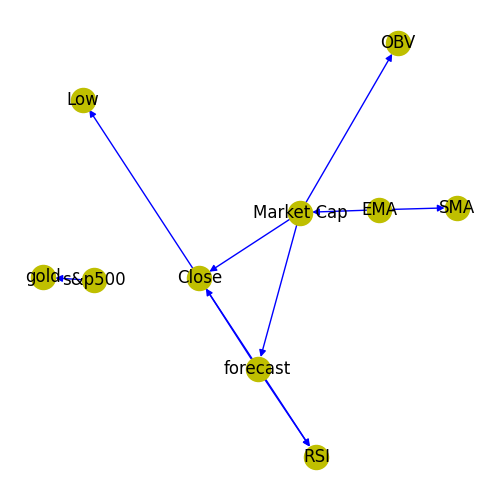
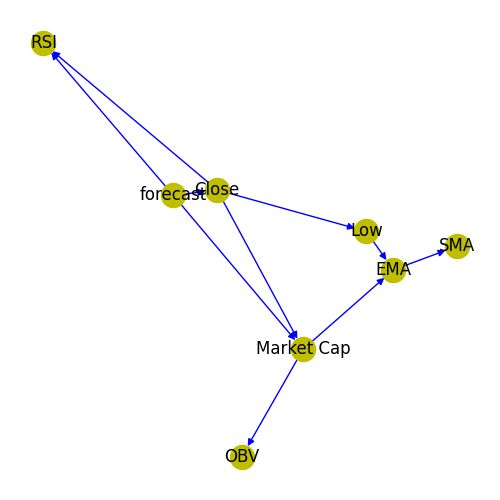
markov - done

diff --git a/source_code/markov.py b/source_code/markov.py
@@ -1,3 +1,21 @@
+# Import libraries
+import os
+import argparse
+import numpy as np
+random_seed = 42
+np.random.seed(random_seed)
+
+import pandas as pd
+import networkx as nx
+from pgmpy.models import BayesianModel
+from pgmpy.inference import BeliefPropagation
+
+import matplotlib.pyplot as plt
+import pickle as pkl
+
+import warnings
+warnings.filterwarnings("ignore")
+
 def remove_disconnected_nodes(original_model: BayesianModel) -> BayesianModel:
     """
     Function to remove disconnected nodes from a Bayesian Model.
@@ -23,71 +41,81 @@ def remove_disconnected_nodes(original_model: BayesianModel) -> BayesianModel:
 
     return model
 
-model_bayesian_connected = remove_disconnected_nodes(model_bayesian)
+if __name__ == '__main__':
+    argparser = argparse.ArgumentParser(description='Bayesian Network')
+    argparser.add_argument('--cleaned_data', type=str, default='../data/cleaned_data/test_data.csv', help='Path to the data')
+    argparser.add_argument('--hmm_data', type=str, default='../data/hmm_data/test_data.csv', help='Path to the test data')
+    args = argparser.parse_args()
 
-# Convert Bayesian Network to Markov Network
-markov_model = model_bayesian_connected.to_markov_model()
+    # Load pkl model
+    with open('../models/bayesian_model.pkl', 'rb') as f:
+        model_bayesian = pkl.load(f)
+    
+    model_bayesian_connected = remove_disconnected_nodes(model_bayesian)
 
-# Initialize the Belief Propagation class with the Markov Model
-bp = BeliefPropagation(markov_model)
+    # Convert Bayesian Network to Markov Network
+    markov_model = model_bayesian_connected.to_markov_model()
 
-for cpd in model_bayesian_connected.get_cpds():
-    print("CPD for {0}:".format(cpd.variable))
-    print(cpd)
+    # Initialize the Belief Propagation class with the Markov Model
+    bp = BeliefPropagation(markov_model)
 
-# Create a new graph from the Markov model's edges
-G = nx.Graph()
-G.add_edges_from(markov_model.edges())
+    for cpd in model_bayesian_connected.get_cpds():
+        print("CPD for {0}:".format(cpd.variable))
+        print(cpd)
 
-# Draw the graph
-plt.figure(figsize=(8, 6))
-pos = nx.spring_layout(G, seed=42)  # set layout
-nx.draw(G, pos, with_labels=True, font_weight='bold')
+    # Create a new graph from the Markov model's edges
+    G = nx.Graph()
+    G.add_edges_from(markov_model.edges())
 
-plt.title('Markov Network Graph')
-plt.show()
+    # Draw the graph
+    fig = plt.figure(figsize=(8, 6))
+    pos = nx.spring_layout(G, seed=42)  # set layout
+    nx.draw(G, pos, with_labels=True, font_weight='bold')
+
+    plt.title('Markov Network Graph')
+    plt.show()
+
+    # Create folder if not exists
+    if not os.path.exists('./plots/markov'):
+        os.makedirs('./plots/markov')
+
+    # Save the plot
+    fig.savefig('./plots/markov/markov_model.png')
 
 
-from pandas.core.arrays.datetimelike import mode
+    # discretise test data and plot
+    test_data = pd.read_csv(args.cleaned_data, index_col=0)
+    states_test = pd.read_csv(args.hmm_data, index_col=0)
+    
 
-# discretise test data and plot
-discretise_data_with_hmm_and_save_csv(test_data, 'test_data')
-states_test = pd.read_csv("./data/test_data.csv", index_col=0);
-# states_test = states_test.drop('forecast', axis=1)
+    # Initialize an empty DataFrame to store the results
+    results_df_markov = pd.DataFrame()
 
-# Initialize an empty DataFrame to store the results
-results_df_markov = pd.DataFrame()
+    # Get a set of variable names from the model
+    model_variables = set(model_bayesian_connected.nodes())
+    print(model_variables)
 
-# Get a set of variable names from the model
-model_variables = set(model_bayesian_connected.nodes())
-print(model_variables)
+    # Loop over all rows in the DataFrame
+    for i in range(len(states_test)):
+        # Get the current row and convert it to a dictionary
+        evidence_row = test_data.iloc[i]
+        evidence = evidence_row.to_dict()
 
-# Loop over all rows in the DataFrame
-for i in range(len(states_test)):
-    # Get the current row and convert it to a dictionary
-    evidence_row = test_data.iloc[i]
-    evidence = evidence_row.to_dict()
+        # # Remove 'Close' and forecast from the evidence
+        if 'Close' in evidence:
+            del evidence['Close']
 
-    # # Remove 'Close' and forecast from the evidence
-    if 'Close' in evidence:
-        del evidence['Close']
-        # del evidence['forecast']
-        # del evidence['13w_treasury']
+        # Only keep variables in the evidence that are in the model
+        evidence = {var: value for var, value in evidence.items() if var in model_variables and value in [0, 1, 2]}
 
-    # Only keep variables in the evidence that are in the model
-    evidence = {var: value for var, value in evidence.items() if var in model_variables and value in [0, 1, 2]}
-    # for var, value in evidence.items():
-    #   print(f"Variable: {var}, Value: {value}, Type: {type(value)}")
+        # Perform the inference
+        result = bp.query(variables=['Close'], evidence=evidence)
 
-    # Perform the inference
-    result = bp.query(variables=['Close'], evidence=evidence)
+        # Convert the result to a DataFrame and append it to the results DataFrame
+        result_df = pd.DataFrame([result.values], columns=['prob_0', 'prob_1', 'prob_2'])
+        results_df_markov = pd.concat([results_df_markov, result_df], ignore_index=True)
 
-    # Convert the result to a DataFrame and append it to the results DataFrame
-    result_df = pd.DataFrame([result.values], columns=['prob_0', 'prob_1', 'prob_2'])
-    results_df_markov = pd.concat([results_df_markov, result_df], ignore_index=True)
-
-results_df_markov['forecast'] = np.argmax(results_df_markov.values, axis=1)
-# results_df = results_df.reset_index(drop=True)
-test_dataset = states_test.reset_index(drop=True)
-results_df_markov['Close'] = test_dataset['Close']
-results_df_markov
+    results_df_markov['forecast'] = np.argmax(results_df_markov.values, axis=1)
+    test_dataset = states_test.reset_index(drop=True)
+    results_df_markov['Close'] = test_dataset['Close']
+    print(results_df_markov)

diff --git a/source_code/bayesian.py b/source_code/bayesian.py
@@ -11,6 +11,8 @@ import matplotlib.pyplot as plt
 from pgmpy.models import BayesianNetwork
 from pgmpy.estimators import BDeuScore, BDsScore, BicScore, HillClimbSearch
 
+import pickle as pkl
+
 import warnings
 warnings.filterwarnings("ignore")
 
@@ -122,6 +124,14 @@ if __name__ == "__main__":
     model_bayesian = BayesianNetwork(ebunch=best_model.edges())
     model_bayesian.fit(train_data)
 
+    # If the folder does not exist, create a new one
+    if not os.path.exists('../models'):
+        os.makedirs('../models')
+
+    #Save the model into pkl file
+    with open('../models/bayesian_model.pkl', 'wb') as f:
+        pkl.dump(model_bayesian, f)
+
     #Create a figure
     fig = plt.figure(figsize=(5, 5))
 
@@ -141,6 +151,7 @@ if __name__ == "__main__":
     # Save the plot
     fig.savefig('./plots/bayesian/K2_model.png')
 
+    # Create folder if not exists
     model_bayesian.get_markov_blanket('Close')
 
     ## Discretise the validation dataset and plot
